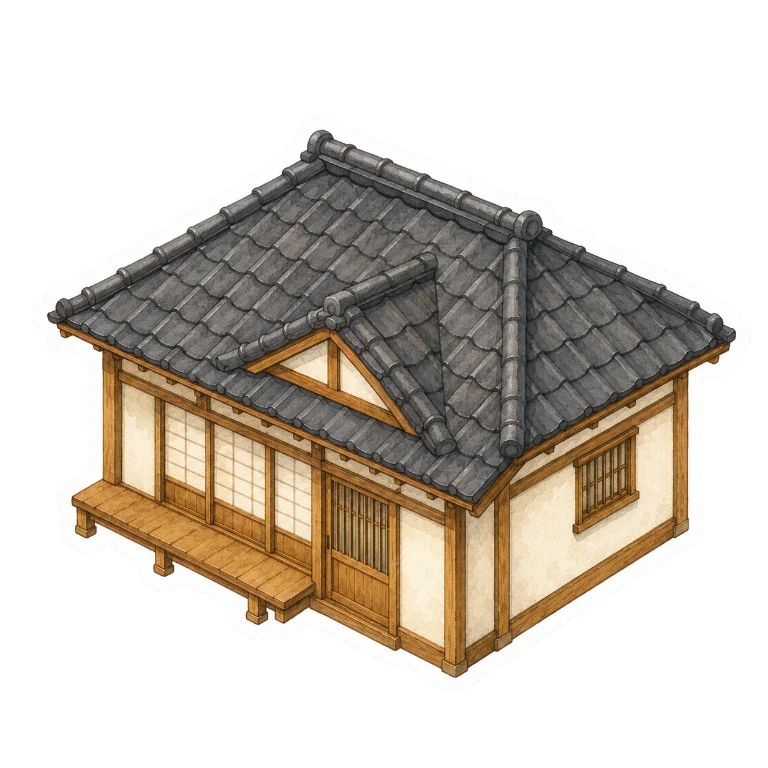
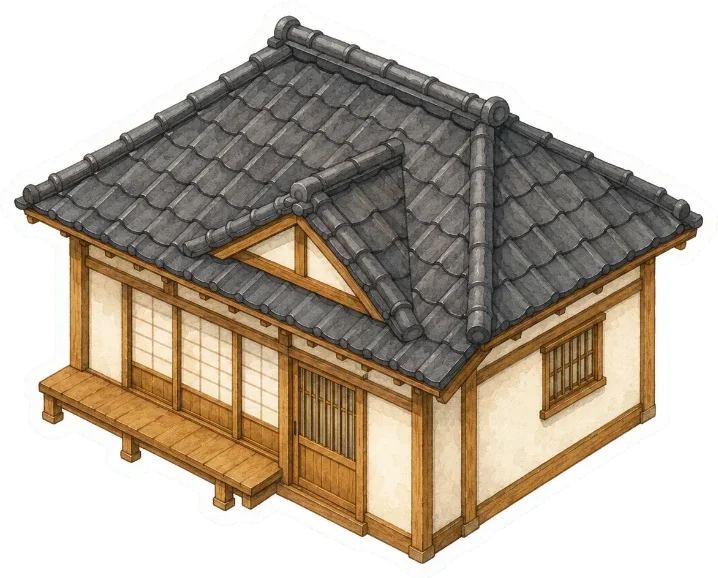
自宅スプライトとマス目のズレを修正（余白トリム＋実測メタデータで底辺を整合）
Claude-Session: https://claude.ai/code/session_011XBePAztCTSQRwFRj56MwD

diff --git a/index.html b/index.html
@@ -1021,9 +1021,11 @@
       -webkit-user-drag: none;
       -webkit-touch-callout: none;
     }
-    /* 本物の建物画像はフチまで絵なので、足元アンカーに絵の底辺を合わせる */
+    /* 本物の建物画像: 要素の底辺中央=アンカー（フットプリント中心）。
+       絵の底の頂点はimg側のtranslateでフットプリントの底へ落とす（buildMachiItemEl参照） */
     .machi-item.has-img {
-      transform: translate(-50%, -94%);
+      transform: translate(-50%, -100%);
+      transform-origin: 50% 100%;
     }
     /* 長押しで「持ち上がった」状態。少し浮いて大きくなる */
     .machi-item.dragging {
@@ -1033,7 +1035,7 @@
       filter: drop-shadow(0 10px 14px rgba(31, 47, 61, 0.45));
     }
     .machi-item.has-img.dragging {
-      transform: translate(-50%, -101%) scale(1.06);
+      transform: translate(-50%, calc(-100% - 8px)) scale(1.04);
     }
     #machiCellHighlight {
       position: absolute;
@@ -4902,7 +4904,10 @@
 
     var MACHI_ITEM_CATALOG = [
       // スターター（抽選に出ない。最初から街の中心にある）
-      { type: 'home', name: '自宅', emoji: '🏠', w: 2, h: 2, starter: true, img: 'img/machi/home.webp' },
+      // imgScale: 表示幅 = tileW×w×imgScale（絵の底辺ダイヤがフットプリント幅に合うよう実測から算出）
+      // imgBaseX: 絵の「底の頂点」のX位置（画像幅に対する割合。実測値）
+      // imgFringe: 白フチの厚みぶん絵を沈める補正（画像幅に対する割合）
+      { type: 'home', name: '自宅', emoji: '🏠', w: 2, h: 2, starter: true, img: 'img/machi/home.webp', imgScale: 1.12, imgBaseX: 0.586, imgFringe: 0.014 },
       // 無料（1×1）
       { type: 'konbini', name: 'コンビニ', emoji: '🏪', w: 1, h: 1 },
       { type: 'mansion', name: 'マンション', emoji: '🏢', w: 1, h: 1 },
@@ -5385,12 +5390,17 @@
       el.className = 'machi-item' + (item.type === 'home' ? ' machi-home' : '');
       if (entry.img) {
         // 本物の建物画像がある場合はそれを描画（無ければ絵文字プレースホルダー）。
-        // 幅はフットプリント（マスw個ぶんのダイヤ幅）に合わせる
+        // 位置合わせ: elのアンカーはフットプリント中心。画像は「絵の底辺ダイヤの底の頂点」が
+        // フットプリントの底の頂点（中心のtileH×h/2下）に来るよう、実測メタデータでずらす
         var buildingImg = document.createElement('img');
         buildingImg.src = entry.img;
         buildingImg.alt = entry.name;
         buildingImg.draggable = false;
-        buildingImg.style.width = Math.round(iso.tileW * entry.w) + 'px';
+        var dispW = Math.round(iso.tileW * entry.w * (entry.imgScale || 1));
+        buildingImg.style.width = dispW + 'px';
+        var baseX = (entry.imgBaseX != null ? entry.imgBaseX : 0.5);
+        var dropY = Math.round(iso.tileH * entry.h / 2 + dispW * (entry.imgFringe || 0));
+        buildingImg.style.transform = 'translate(' + ((0.5 - baseX) * 100).toFixed(2) + '%, ' + dropY + 'px)';
         el.appendChild(buildingImg);
         el.classList.add('has-img');
       } else {

diff --git a/HANDOFF.md b/HANDOFF.md
@@ -207,6 +207,11 @@
   - `GARDEN_BACKGROUNDS`に立春〜大寒の全24節気を登録済み（`img/garden/bg-*.webp`、横長1536×1024・俯瞰パノラマ・固定構図: 左に池＋奥の生け垣沿いの小川が池に注ぐ＋飛び石＋右に一本の木）。受け入れ手順は毎回同じ: アップロード画像を目視確認→Chromiumのcanvasで長辺1536pxのWebP(0.85)に変換→登録→構文チェック。
   - 冬の4枚は 大雪=降雪・冬至=夕日と長い影・小寒=快晴の冬空・大寒=厚い雲と深い雪、で描き分けられている。
   - 未対応の論点: 大寒（真っ白）→立春（緑）の切り替わりが大きい。ユーザーと相談し「一年の巡りが締まって春に戻る演出」として意図的に残す方針（変えるなら立春を残雪ありで再生成）。
+- 2026-07-13、自宅スプライトとマス目のズレを修正した（ユーザー指摘）。原因は透過余白＋アンカー概算。対策:
+  - home.webpを不透明領域でトリミング（768²→718×578）。
+  - 建物画像の整合を**実測メタデータ駆動**にした: カタログの imgScale（表示幅=tileW×w×imgScale。絵の底辺ダイヤ幅がフットプリント幅に一致するよう算出）/ imgBaseX（絵の底の頂点のX割合。ここがフットプリントの底の頂点に来るようtranslateXで補正）/ imgFringe（白フチの厚みぶん沈める割合）。elは translate(-50%,-100%) でアンカー=フットプリント中心、img側のtranslateで底の頂点をtileH×h/2下の底コーナーへ落とす。自宅の実測値: imgScale 1.12 / imgBaseX 0.586 / imgFringe 0.014。
+  - 計測手順（新しい建物画像を受け入れるとき毎回）: canvasでアルファ>10のbboxを取りトリミング→底からdyごとの不透明幅をスキャンして底辺ダイヤの頂点X・左右の角・勾配を確認→imgScale=フットプリント幅÷絵の底辺幅、imgBaseX=底の頂点X割合→半透明ゴースト＋machiShowCellHighlightのスクショで目視確認。この家の絵の底辺勾配は左2.1:1・右1.54:1と非対称だったため、頂点基準が最も自然だった。
+  - 長押し・道路・ズームの既存テストは全て再実行しパス。
 - 2026-07-13、街の建物操作を**長押し移動**に変更した（「触ると動いてしまい不便」とのユーザー指摘）。
   - タップ=今まで通り（自宅→庭、他→思い出チップ）。**触ってすぐ動かす=パン**（建物は動かない）。**長押し450ms=持ち上げて移動モード**（.draggingで浮いて1.06倍、navigator.vibrate(15)、iOSの長押しメニューは-webkit-touch-callout:noneで抑止）。
   - 移動中は machiGridBackground(iso, roads, true) でマス目線を濃く太く強調し、スナップ先のフットプリントを machiShowCellHighlight（#machiCellHighlight、SVGひし形、z-index:5）で**緑=置ける/赤=置けない**表示。置けないマスで離すと差し戻し。置けないマスの判定は持ち上げ時にキャッシュ（自分以外の建物＋道路）。